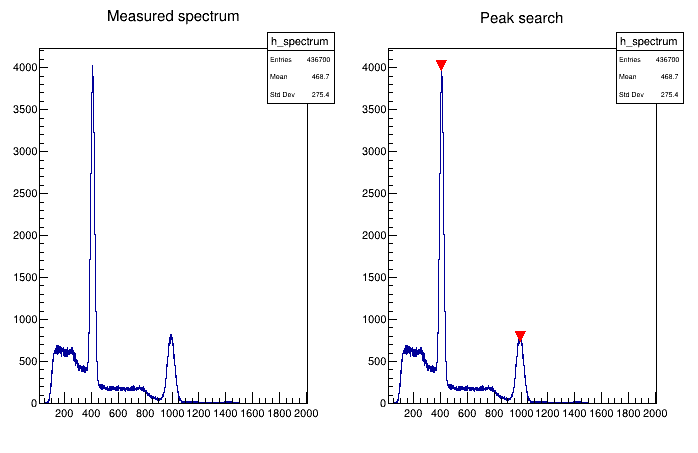
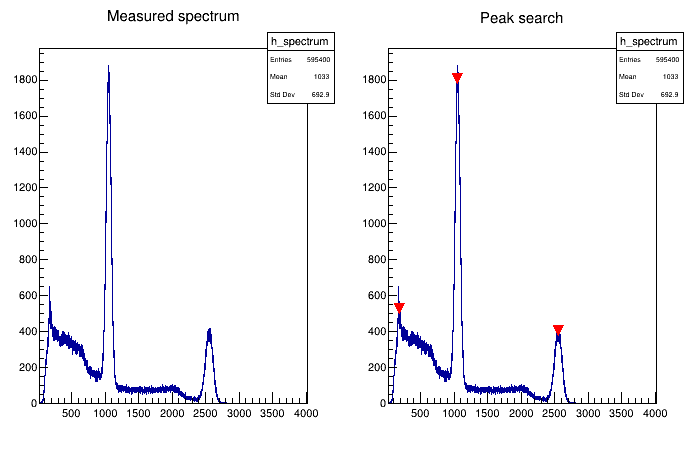
1

diff --git a/macro/peaksearch.C b/macro/peaksearch.C
@@ -5,9 +5,9 @@ struct PeakInfo {
     double sigma;
 };
 
-std::vector<PeakInfo> peaksearch(const char *file_na, short data_chan=0, bool verbose=true, TH1D **h_na_arg=nullptr) {
+std::vector<PeakInfo> peaksearch(const char *file_na, short data_chan=0, bool verbose=true, TH1D **h_na_arg=nullptr, int nBin=2000, int xMin=10, int xMax=2010, float peak_min_ratio=0.18) {
 
-	TH1D *h_na = getHistoForChannelFromTree(file_na,data_chan,2000,10,2010);
+	TH1D *h_na = getHistoForChannelFromTree(file_na,data_chan,nBin,xMin,xMax);
 	TH1D *h_peaks = (TH1D*) h_na->Clone();
 
 	if(h_na_arg) *h_na_arg = h_na;
@@ -27,10 +27,9 @@ std::vector<PeakInfo> peaksearch(const char *file_na, short data_chan=0, bool ve
 	TSpectrum *s = new TSpectrum(3);
 	int nPeaks;
 	double *xPeaks;
-	int sigma = 40;
-	double minratio = 0.18;	// minimum ratio between a peak and the main peak
+	int sigma = 40;	// minimum ratio between a peak and the main peak
 
-	nPeaks = s->Search(h_peaks,sigma,"",minratio);
+	nPeaks = s->Search(h_peaks,sigma,"",peak_min_ratio);
 
 	xPeaks = s->GetPositionX();
 	if (verbose) 
@@ -163,10 +162,10 @@ void peaksearch(TH1* histo) { //Example only for the lesson
 
 }
 
-void multifit(const char *file_na, short data_chan=0, short n_sigma_range=3){
+void multifit(const char *file_na, const char *data_label = "detector", short data_chan=0, short n_sigma_range=3, int nBin=2000, int xMin=10, int xMax=2010, float peak_min_ratio=0.18){
 
 	TH1D *histo =nullptr;
-	auto peaks = peaksearch(file_na, data_chan, true, &histo);
+	auto peaks = peaksearch(file_na, data_chan, true, &histo, nBin, xMin, xMax, peak_min_ratio);
     int nPeaks = peaks.size();
     if (nPeaks == 0) {
         cout << "Nessun picco trovato!\n";
@@ -176,7 +175,7 @@ void multifit(const char *file_na, short data_chan=0, short n_sigma_range=3){
 	TCanvas *c1 = new TCanvas("c1", "Multi Fit", 800, 600);
 	histo->Draw();
 
-    for (int i = 0; i < nPeaks; i++) {
+    for (int i = 0; i < nPeaks; i++) {	
         double mean_guess  = peaks[i].mean;
         double sigma_guess = peaks[i].sigma;  
         double xmin = mean_guess - n_sigma_range*sigma_guess;
@@ -202,7 +201,32 @@ void multifit(const char *file_na, short data_chan=0, short n_sigma_range=3){
 
         cout << Form("Fit #%d: mean=%.2f sigma=%.2f\n",
                      i, fitFunc->GetParameter(3), fitFunc->GetParameter(4));
-    }
 
-    gPad->Update();
+		char conferma;
+		cout << "Vuoi salvare i risultati del fit in fit_parameters.csv? (s/n): ";
+		cin >> conferma;
+		conferma = std::tolower(conferma);
+
+		if (conferma != 's') {
+			cout << "Salvataggio annullato dall'utente." << endl;
+			continue;
+		}
+
+    	gPad->Update();
+
+		//Salva
+		ofstream file_fit("fit_parameters.csv", ios::app); // 'app' = append (aggiunge in fondo)
+		if (file_fit.is_open()) {
+			file_fit << data_label << ",";
+			for (int i = 0; i < 5; ++i) {
+				file_fit << fitFunc->GetParameter(i) << "," << fitFunc->GetParError(i);
+				if (i < 4) file_fit << ",";  // separatore tra colonne
+			}
+			file_fit << "\n";
+			file_fit.close();
+			cout << "Parametri salvati in fit_parameters.csv" << endl;
+		} else {
+			cout << "Errore: impossibile aprire fit_parameters.csv" << endl;
+		}
+    }
 }

diff --git a/macro/filter_data.C b/macro/filter_data.C
@@ -6,10 +6,10 @@ struct FitResult {
 };
 
 FitResult filter_data(const char *name_file,float acq_time, const char *fondo_name_file, float acq_time_fondo, int numBins = 500, double minX = 0, double maxX = 2000, double lowThr = 300, double highThr = 700, float c=1) {
-    //calibrated format
-    TF1 *calib = new TF1("calib", Form("%f*x + %f", m, q));
-    h->GetXaxis()->SetTitle("Energy [keV]");
-    h->GetXaxis()->SetFunction(calib);
+    // //calibrated format: in alternatvia all'effettiva calibrazione si può tenere tutto in u.a. e convertire solo al momento del plot
+    // TF1 *calib = new TF1("calib", Form("%f*x + %f", m, q));
+    // h->GetXaxis()->SetTitle("Energy [keV]");
+    // h->GetXaxis()->SetFunction(calib);
     
     TFile *infile = new TFile(name_file);
     TTree *intree = (TTree*)infile->Get("Data_B");
@@ -92,6 +92,16 @@ void angular_dependence_graph(){
         );
         x_peaks[i] = results[i].mean;
         s_x_peaks[i] = results[i].sigma;
+    }
+
+    //calibration
+    double a = 1.1088657489201306;
+    double s_a = 0.003410386945931957;
+    double b = -16.57114900852498;
+    double s_b = 2.4810877440445904;
+    for(int i=0; i<5; i++){
+        x_peaks[i] = a*x_peaks[i]+b;
+        s_x_peaks[i] = sqrt(pow(x_peaks[i] * s_a, 2) + pow(s_b, 2) + pow(a*s_x_peaks[i],2));
     }
 
     auto gr = new TGraphErrors(5, angles, x_peaks, nullptr, s_x_peaks);

diff --git a/macro/plot_spectrum.C b/macro/plot_spectrum.C
@@ -4,5 +4,23 @@ void plot_spectrum(const char *file_na, short data_chan=0, short n_bin = 2000){
     TH1D *h = getHistoForChannelFromTree(file_na,data_chan,n_bin,10,2010);
     TCanvas *c0 = new TCanvas("c0");
 
-    h->Draw();
+    double a = 1.305848972754931;
+    double s_a = 0.003410386945931957;
+    double b = -20.50011964584811;
+    double s_b = 2.4810877440445904;
+
+    double xmin = 10;
+    double xmax = 2010;
+    double e_min = a * xmin + b;
+    double e_max = a * xmax + b;
+
+    TH1D *hE = new TH1D("hE", "Spectrum in Energy", n_bin, e_min, e_max);
+
+    for (int i = 1; i <= n_bin; i++) {
+        // hE->SetBinContent(i, h->GetBinContent(i)*a+b);
+        hE->SetBinContent(i, h->GetBinContent(i));
+    }
+
+    hE->GetXaxis()->SetTitle("Energy [keV]");
+    hE->Draw();
 }
